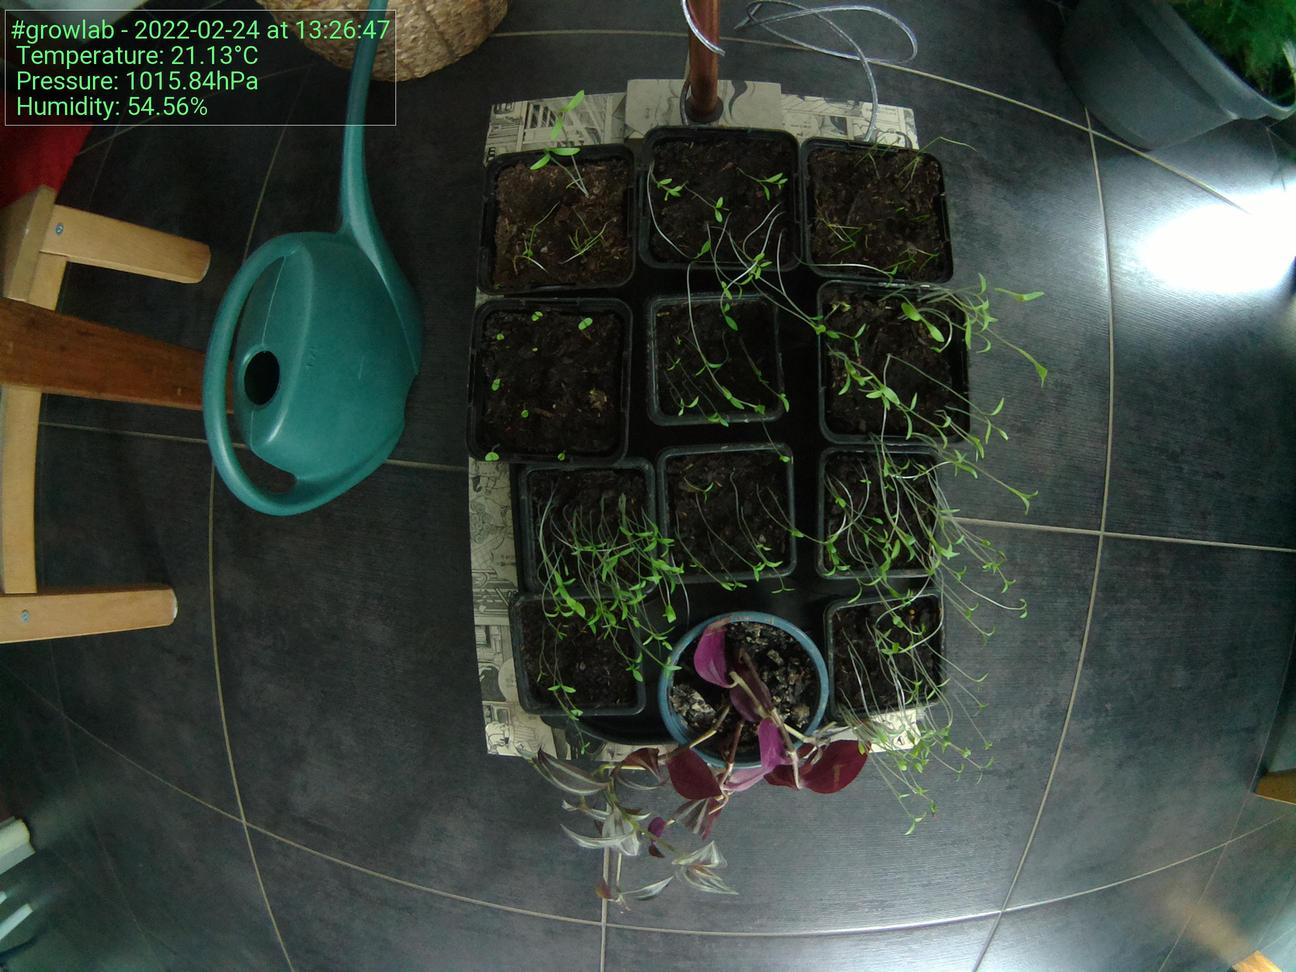
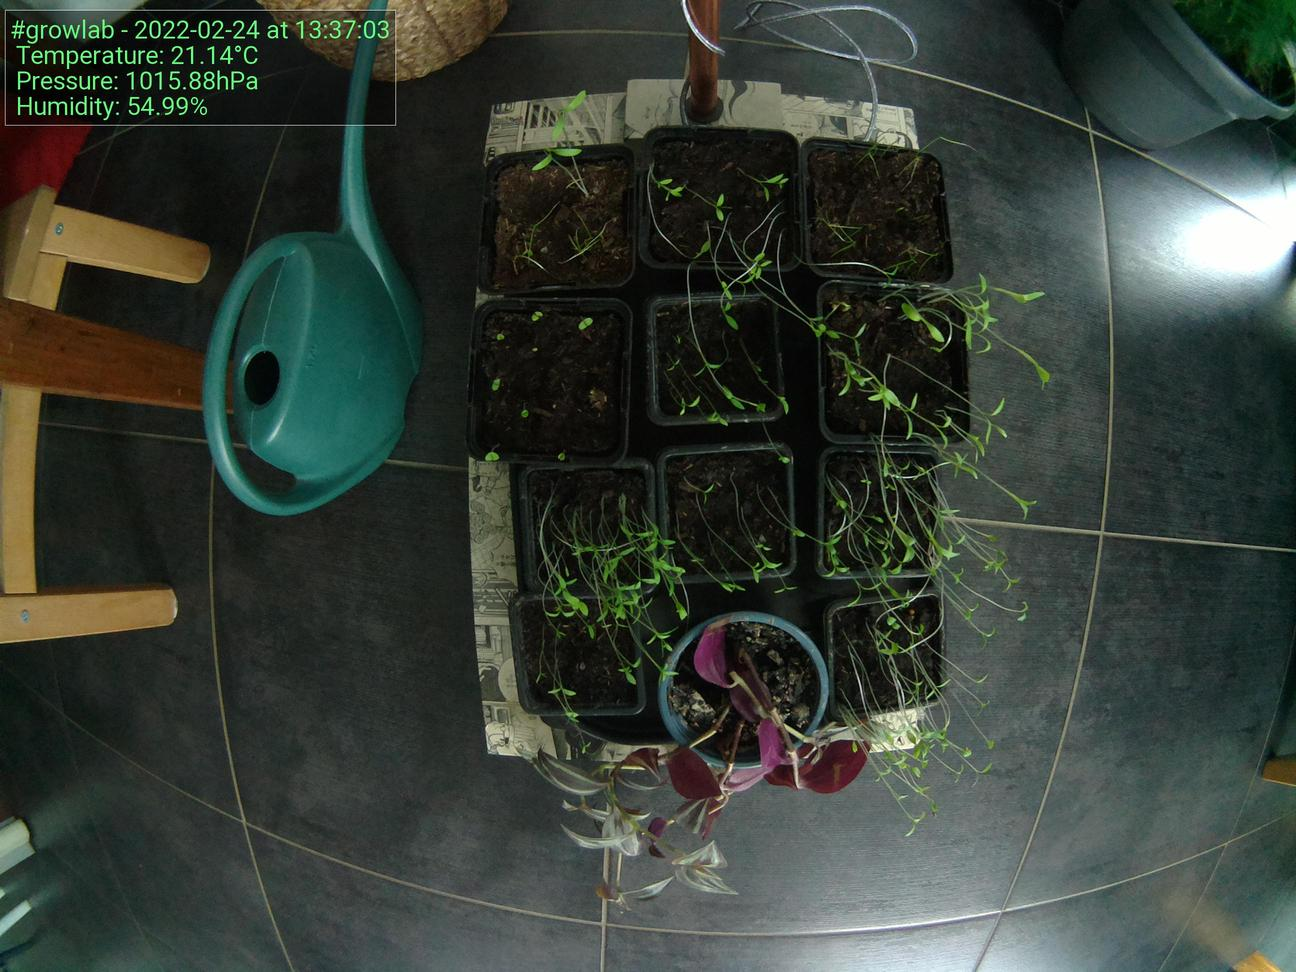
Update images at Thu 24 Feb 13:37:15 CET 2022

diff --git a/docs/index.html b/docs/index.html
@@ -52,19 +52,19 @@
                             </tr>
                             <tr>
                                 <td>Time</td>
-                                <td>13:26:47</td>
+                                <td>13:37:03</td>
                             </tr>
                             <tr>
                                 <td>Temperature</td>
-                                <td>21.13°C</td>
+                                <td>21.14°C</td>
                             </tr>
                             <tr>
                                 <td>Humidity</td>
-                                <td>54.56%</td>
+                                <td>54.99%</td>
                             </tr>
                             <tr>
                                 <td>Pressure</td>
-                                <td>1015.84hPa</td>
+                                <td>1015.88hPa</td>
                             </tr>
                         </tbody>
                     </table>
@@ -72,7 +72,7 @@
 
                 <h5>Latest image</h5>
                 <div style="width: 85%;">
-                            <img class="figure-img img-fluid rounded" src="./preview.jpg?uid=1645705616.6236844">
+                            <img class="figure-img img-fluid rounded" src="./preview.jpg?uid=1645706234.6640036">
                 </div>
             </div>
         </div>
